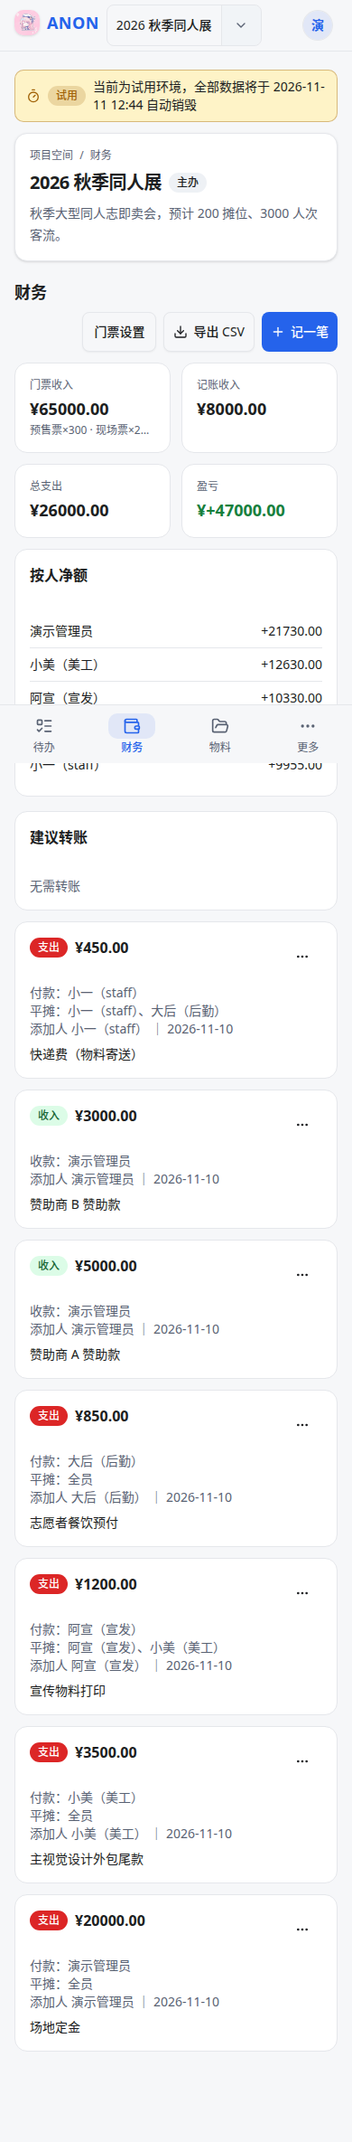
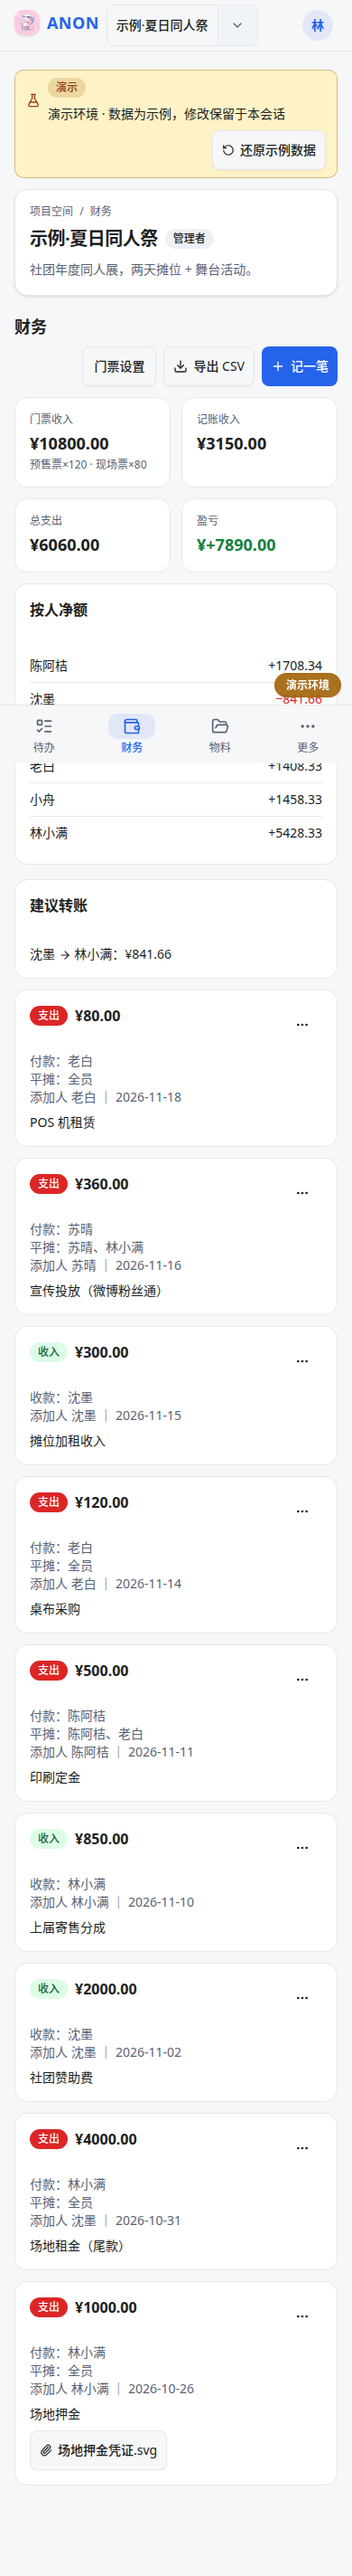
docs: 补齐金额修改说明与财务帮助截图

diff --git a/frontend/src/components/help/content.ts b/frontend/src/components/help/content.ts
@@ -242,6 +242,14 @@ export const HELP_CHAPTERS: HelpChapter[] = [
         image: { src: '/help/tab-finance.png', alt: '财务 Tab', caption: '财务 Tab：记账与汇总' },
       },
       {
+        heading: '修改金额',
+        paragraphs: [
+          '在账目右上角「…」菜单点「修改金额」，表单会填入原金额。输入大于 0、最多两位小数的金额（元），点「保存金额」后，账目、汇总与建议转账随之更新，CSV 也会使用新金额。',
+          '原凭证、备注、付款/收款人、参与平摊人与创建信息均保留。取消不会修改账目；保存失败时保留输入，可修正后重试。主办或财务管理者可修改全部账目，其他有记账权限的成员只能修改自己添加的账目。',
+        ],
+        image: { src: '/help/finance-edit-amount.png', alt: '修改账目金额的居中表单', caption: '修改金额：预填原金额，保存后自动更新汇总与结算' },
+      },
+      {
         heading: '汇总与结算',
         paragraphs: [
           '汇总卡片实时显示门票收入、记账收入、总支出与盈亏；「按人净额」正数表示应收回，负数表示应付出。',

diff --git a/docs/file-index.md b/docs/file-index.md
@@ -18,7 +18,7 @@
 | 认证/注册/会话 | routes/auth.ts、middleware/auth.ts、services/session.ts、utils/jwt.ts、models/{User,RefreshToken,InviteCode}.ts | pages/{Login,Register}.tsx、auth.tsx、api/client.ts | tests/auth.test.ts |
 | 项目/成员/角色/邀请 | routes/projects.ts、routes/invites.ts、models/{Project,Membership,ProjectInvite,ExternalMember}.ts、routes/externalMembers.ts、services/{permissions,projectPeople}.ts | pages/{Projects,ProjectHome,InviteAccept}.tsx、project/{MembersTab,ExternalMembersPanel,TaskAssigneePicker,RolesTab,SettingsTab}.tsx | tests/{projects,invites,external-members}.test.ts |
 | 待办（含模板/进度） | routes/todos.ts、models/{Todo,ReminderLog}.ts、services/{template,todos}.ts | project/{TodosTab,TodoFormDialog,TodoActionSheet}.tsx | tests/{todos,todo-complete,todo-updates,template}.test.ts |
-| 财务 | routes/finance.ts、models/Transaction.ts、services/{finance,financeEntries}.ts | project/FinanceTab.tsx | tests/finance.test.ts |
+| 财务 | routes/finance.ts、models/Transaction.ts、services/{finance,financeEntries}.ts | project/FinanceTab.tsx（记账/修改金额/汇总）、demo/handlers/finance.ts（演示站同契约） | tests/finance.test.ts（含金额修改、权限、凭证保留及汇总结算/导出） |
 | 物料/资料库/文件 | routes/{materials,files}.ts、models/{Resource,ResourceType,ResourceVersion,File}.ts、services/{materialVisibility,materialUploads,preview,storage}.ts、middleware/upload.ts | project/MaterialsTab.tsx（两层类别/联动筛选/类别管理/上传进度/小图与大图预览）、components/{AuthImg,AuthMedia}.tsx | tests/{materials,material-uploads,files}.test.ts |
 | 实物/物资台账 | routes/physical.ts、models/Physical{Category,Item,ItemLog}.ts | project/PhysicalTab.tsx | tests/physical.test.ts |
 | 平台账号（加密） | routes/accounts.ts、models/PlatformAccount.ts、services/platformCrypto.ts | project/AccountsTab.tsx、crypto.ts（浏览器端加密） | tests/accounts.test.ts |
@@ -224,7 +224,7 @@
 ### 项目 Tab `src/components/project/`（挂在 ProjectHome，直调对应后端域）
 - `DashboardTab.tsx` — 仪表盘聚合、持久化卡片顺序/折叠/隐藏、响应式指标与风险计数语义（内嵌公告/里程碑/阶段卡）
 - `TodosTab.tsx` + `TodoFormDialog.tsx` + `TodoActionSheet.tsx` — 待办列表响应式筛选、错误/加载/空态、任务操作及表单（日期支持开展倒排）
-- `FinanceTab.tsx` — 响应式财务汇总、结算与账目列表，记账/门票/CSV 导出
+- `FinanceTab.tsx` — 响应式财务汇总、结算与账目列表，记账/门票/CSV 导出；账目菜单修改金额，FormOverlay 预填金额、提交禁用与失败重试，成功刷新汇总和结算
 - `MaterialsTab.tsx` — 两层类别联动筛选（序列与筛选双重保护加载状态）、搜索排序、类别管理、资源编辑上传与预览；数字资源两列卡、版本切换与可见范围弹窗；实物入口及帮助截图 public/help/materials-*.png
 - `PhysicalTab.tsx` — 实物分类/台账/状态/日志
 - `AccountsTab.tsx` — 平台账号增删/密码揭示
@@ -248,6 +248,7 @@
 - `types.ts` / `helpers.ts` — Db/Ctx/Handler 类型 / 错误信封·权限·文件存取；大文件 IndexedDB 持久化、共享锁保护活跃标签页、删除与孤立文件回收
 - `aggregate.ts` — R1–R7 聚合（注释标注移植自后端哪个服务）
 - `handlers/*.ts`（16 个）— 按域复刻后端路由：auth/projects/externalMembers/todos/finance/materials/physical/accounts/dashboard/work/stageRundowns/stageSignups/customTools/open/lostFound + index.ts 合并路由表
+- `handlers/finance.ts` — 演示记账/门票/CSV；账目 PATCH 按角色与创建者鉴权，十进制金额精确转分，校验通过再写回
 - `pwa-register-stub.ts` — 禁 SW 防缓存干扰 mock
 
 ### 构建与脚本

diff --git a/docs/readme.md b/docs/readme.md
@@ -178,7 +178,7 @@ CLOUDFLARE_API_TOKEN=... CLOUDFLARE_ACCOUNT_ID=... npm run deploy
 - **权限化审计日志**：实物清单数量变动/状态变更需 `materials:manage`，无权限成员看不到「变动记录」入口。
 - **文件预览收敛**：仅位图（png/jpeg/webp/gif）生成缩略预览；内联预览白名单仅放行位图 + PDF/Markdown/常见音视频（PDF 浏览器沙箱渲染、音视频标签解码、Markdown 原始 HTML 转义），SVG 等可携带脚本的格式不生成预览、下载走 `Content-Disposition: attachment`。
 - **非 root 容器**：backend（node 用户）与 frontend（`nginxinc/nginx-unprivileged`，监听 8080）均不以 root 运行。
-- **依赖面**：multer 2.x（修复 CVE-2025-47935/47944）、vite 6.4+（修复 CVE-2026-39365，dev-server 路径穿越）、nodemailer 9.x、react-router 7.18+。
+- **依赖面**：mongoose 8.24.10+（修复 2026-11-16 扫描发现的 5 项已知漏洞）、multer 2.5+、vite 6.4+（修复 CVE-2026-39365，dev-server 路径穿越）、nodemailer 10.1.4+、react-router 7.18+。升级 Mongoose 保持 8.x 主版本，按锁文件安装并通过后端回归与 FerretDB 容器实测。
 - **依赖扫描 CI**：`.github/workflows/dependency-scan.yml` 用 osv-scanner（v2.4.0 固定版本 + SHA256 校验）扫描 backend/frontend 锁文件，push 涉及依赖变更时触发 + 每周一全量兜底；豁免清单在根目录 `osv-scanner.toml`（新增时必须附原因，当前无豁免）；构建依赖的临时版本覆盖与解除条件见根 README「依赖安全约束」
 
 ### 公网部署必须做的三件事

diff --git a/docs/api.md b/docs/api.md
@@ -664,7 +664,9 @@ interface FinanceSummary {
 
 ### PATCH /api/projects/:id/finance/:txId（finance:manage 或 finance:add）
 
-编辑账目（JSON，字段均可选）：`{ type?, amount?, note?, payerUserId?, splitAmong? }`。不修改附件。
+编辑账目（JSON，字段均可选）：`{ type?, amount?: number|string, note?, payerUserId?, splitAmong? }`。`amount` 以元提交，必须大于 0、最多两位小数，换算后的分值须在安全整数范围内。未提交的字段保持原值，不修改附件。
+
+仅修改金额可提交 `{ "amount": "80.02" }`，保留备注、付款/收款人、参与平摊人与创建信息。成功后的列表汇总、结算建议与 CSV 均按新金额计算。
 财务管理者可改任意账目；`finance:add` 记账者仅能改自己添加的账目，改他人账目返回 403。
 响应 200：`{ transaction: TransactionItem }`
 错误：400 `bad_request`；403 `forbidden`；404 `not_found`

diff --git a/docs/features.md b/docs/features.md
@@ -339,6 +339,12 @@ ANON 是一个面向活动（展会、同人活动、演出等）组织团队的
 
 > 金额在系统内以「分」存储，结算精确到分。
 
+### 修改金额
+
+在账目右上角「…」菜单点「修改金额」，居中表单会填入原金额。输入大于 0、最多两位小数的金额（元）后点「保存金额」；保存成功会刷新账目、汇总与建议转账，之后导出的 CSV 使用新金额。
+
+本操作只修改金额，原凭证、备注、付款/收款人、参与平摊人与创建信息均保留。取消不会写入；保存失败时保留输入，可修正后重试。主办或财务管理者可修改全部账目，仅有 `finance:add` 的成员只能修改自己添加的账目。
+
 ### 看汇总
 
 汇总卡片实时显示：

diff --git a/README.md b/README.md
@@ -31,7 +31,7 @@
 
 ### 财务：收支与结算
 
-多票种门票设置、收支记账（可传凭证）、按人净额与最简转账建议、按成员导出 CSV。
+多票种门票设置、收支记账（可传凭证）、账目菜单修改金额、按人净额与最简转账建议、按成员导出 CSV。修改金额后自动刷新汇总与结算，保留原凭证及其他账目信息。
 
 ![财务 Tab](frontend/public/help/tab-finance.png)
 
